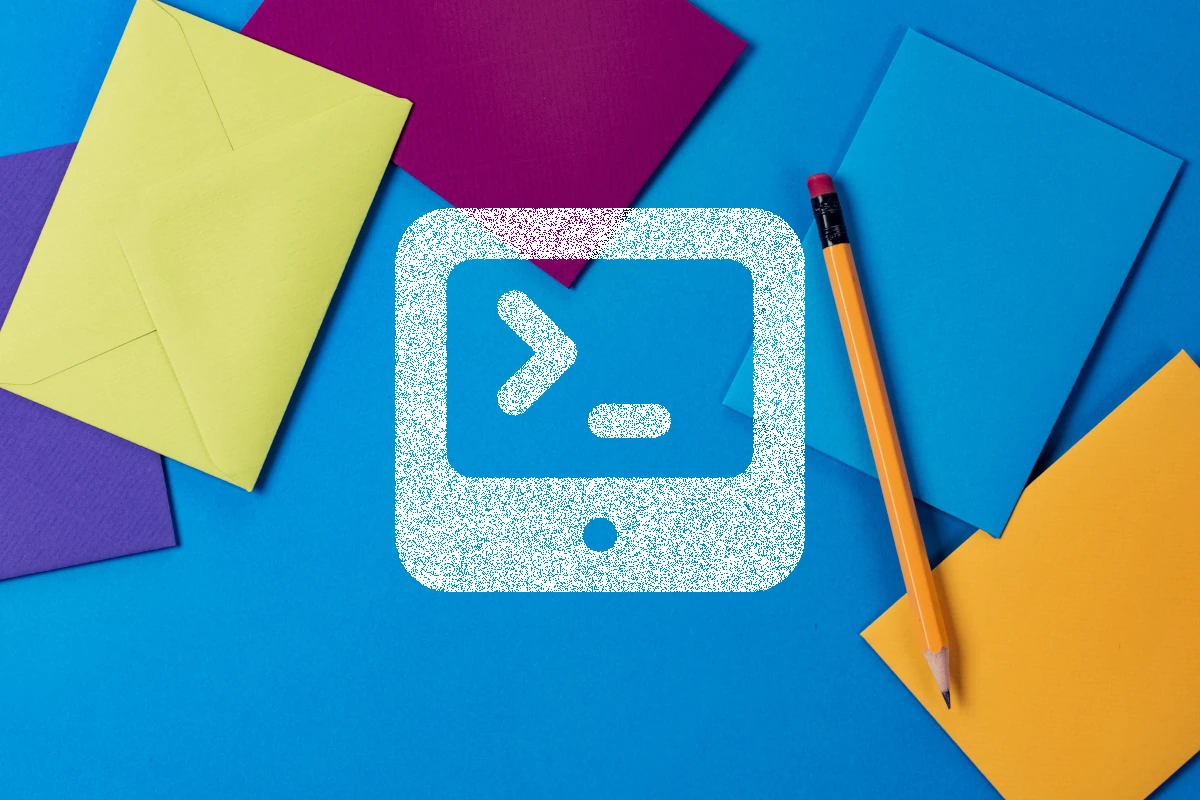
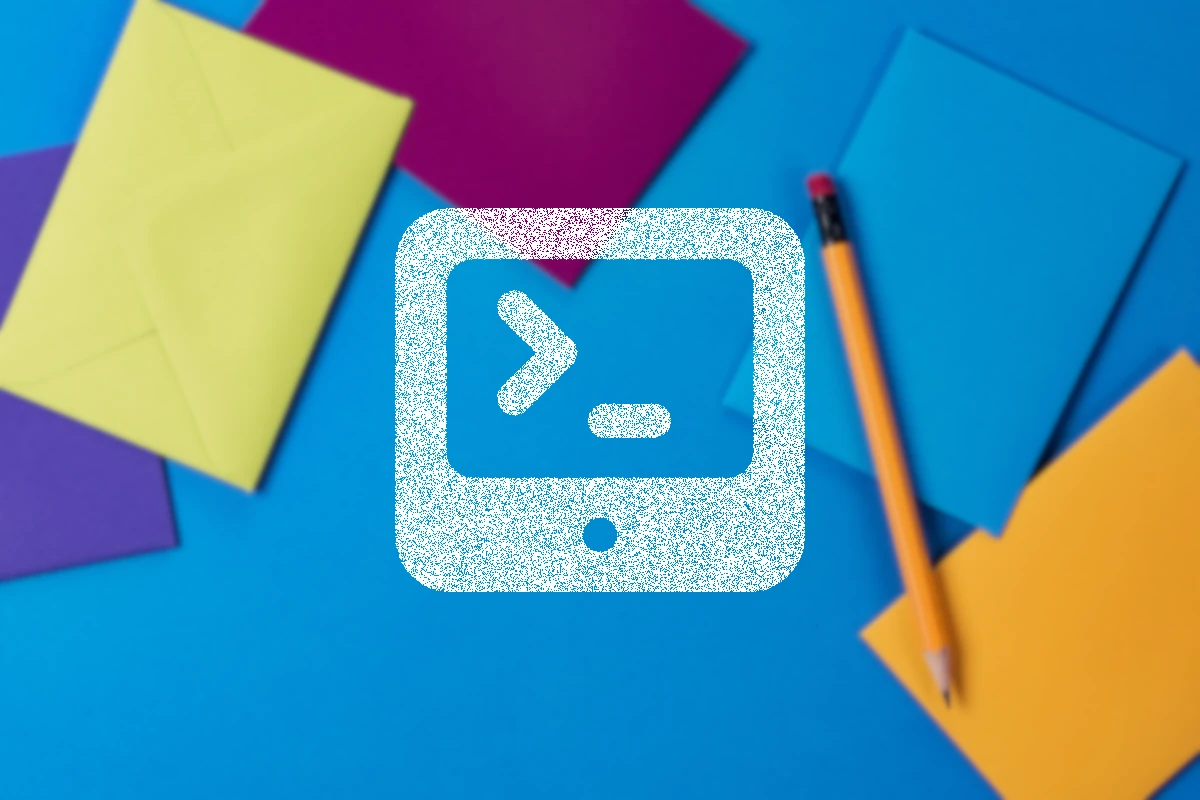
:sparkles: hello world post

diff --git a/content/blog/hola-mundo/index.md b/content/blog/hola-mundo/index.md
@@ -5,4 +5,20 @@ image: "/blog/hola-mundo/images/cover.webp"
 tags: []
 categories: [personal]
 draft: false
+description: El inicio de esta aventura surge con la decisión de migrar mi sitio personal en Wordpress a uno estático utilizando Hugo.
 ---
+¡Hola, bienvenido a mi sitio personal!
+
+El inicio de esta aventura surge con la decisión de migrar mi sitio personal en Wordpress a uno estático utilizando Hugo.
+
+La búsqueda de una alternativa a **Wordpress.com** se debió a la necesidad de acceder a plugins y herramientas de SEO. Sopesé el costo de actualizar la suscripción de Wordpress a Business contra los sitios de hosting dedicados a WordPress, las limitaciones de tráfico y las ofertas válidas únicamente en el primer año. También contemplé el tiempo que demandaría administrar un servidor.
+
+El cambio no resultó tan transparente como anticipé; he superado una curva de aprendizaje, desde ajustar el tema a mis necesidades hasta analizar las estadísticas del antiguo sitio y priorizar la transferencia de publicaciones al nuevo sitio, crear redirecciones y más. Asimismo, he sacrificado funciones como los comentarios y parte del espacio de almacenamiento.
+
+En los beneficios puedo mencionar la facilidad de escribir en Markdown, la reducción en los costos del hosting. Adicionalmente al encontrarse el repositorio en Github, puedo actualizar la gráfica de contribuciones con cada publicación 😉.
+
+Me he comprometido a un año con este experimento y estoy emocionado por lo que vendrá. ¿Quién sabe qué herramienta probaré después? Hasta entonces, sigue visitando mi sitio para actualizaciones y más.
+
+---
+Foto de <a href="https://unsplash.com/@joannakosinska?utm_source=unsplash&utm_medium=referral&utm_content=creditCopyText" target="_blank" rel="nofollow, noindex, noreferrer">Joanna Kosinska</a> en <a href="https://unsplash.com/es/fotos/LAaSoL0LrYs?utm_source=unsplash&utm_medium=referral&utm_content=creditCopyText" target="_blank" rel="nofollow, noindex, noreferrer">Unsplash</a>
+  